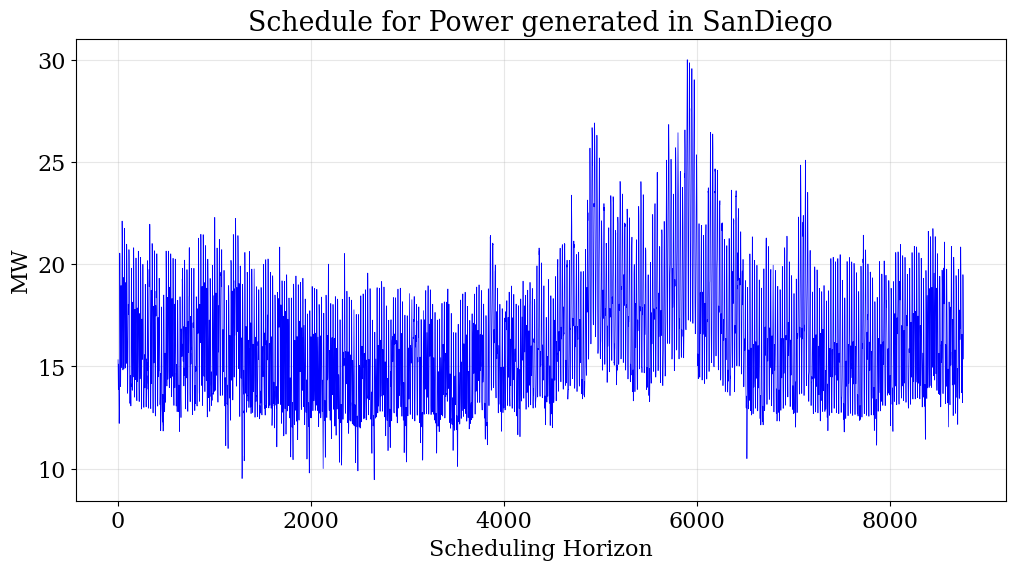
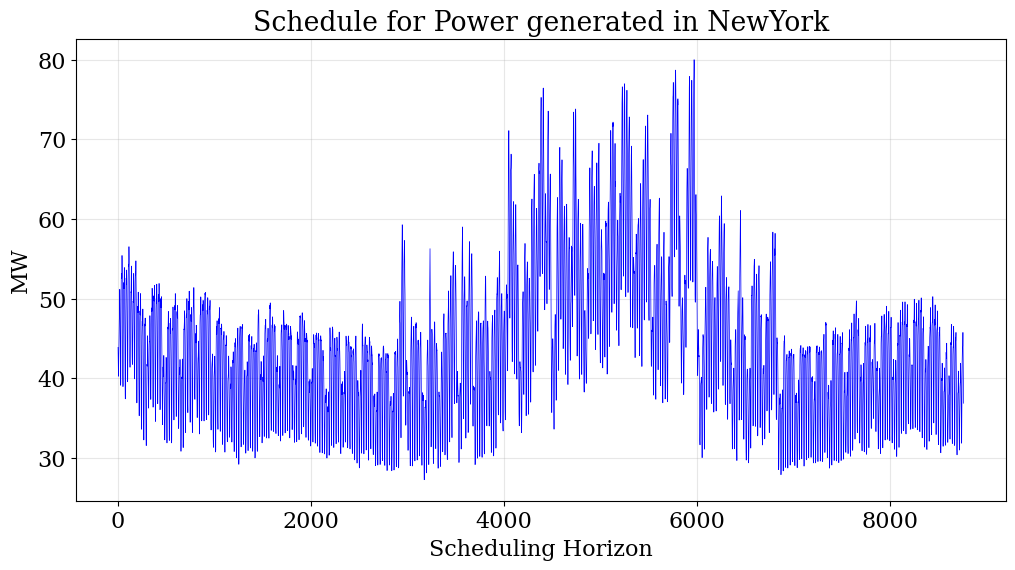
updated large example

diff --git a/docs/example_multiloc.rst b/docs/example_multiloc.rst
@@ -156,6 +156,7 @@ The problem can now modeled in energiapy
 .. code-block:: python 
 
     import pandas 
+    import numpy
     from energiapy.components.temporal_scale import Temporal_scale
     from energiapy.components.resource import Resource, VaryingResource
     from energiapy.components.process import Process, VaryingProcess
@@ -165,11 +166,17 @@ The problem can now modeled in energiapy
     from energiapy.components.scenario import Scenario
     from energiapy.components.transport import Transport
     from energiapy.components.result import Result 
-    from energiapy.utils.data_utils import make_henry_price_df, remove_outliers
+    from energiapy.utils.data_utils import get_data, make_henry_price_df, remove_outliers, load_results
     from energiapy.model.formulate import formulate, Constraints, Objective
     from energiapy.utils.nsrdb_utils import fetch_nsrdb_data
-    from energiapy.plot import plot
+    from energiapy.plot import plot_results, plot_scenario
+    from energiapy.plot.plot_results import CostY, CostX
     from energiapy.model.solve import solve
+    from energiapy.aggregation.reduce_scenario import reduce_scenario, Clustermethod
+    from energiapy.aggregation.ahc import agg_hierarchial_elbow, IncludeAHC, Fit
+    from energiapy.aggregation.dtw import dynamic_warping, dynamic_warping_matrix, dynamic_warping_path, IncludeDTW
+    from energiapy.utils.data_utils import load_results
+    import matplotlib.pyplot as plt
 
 **import weather data**
 
@@ -194,6 +201,24 @@ Here, we import solar data as dni and wind data as wind speed for most populated
     weather_houston =  fetch_nsrdb_data(attrs = ['wind_speed', 'dni'], year = 2019, state = 'Texas', county = 'Harris',\
             resolution= 'hourly', get = 'min-elevation', save = 'data/ho_solar19')[1] 
 
+Alternatively, saved files can also be imported.
+
+.. code-block:: python
+
+    def load_data(loc:str, index:list):
+        df = pandas.read_csv(f'data/{loc}_solar19.csv')
+        df['idx'] = index
+        df = df.set_index('idx')
+        return df
+
+    idx = [(i,j,k) for i,j,k in product(range(1), range(365), range(24))]
+
+    weather_ny = load_data('ny', idx)[['DNI', 'Wind Speed']]
+    weather_ny = weather_ny.rename(columns= {'DNI': 'dni', 'Wind Speed': 'wind_speed'})
+    weather_sd = load_data('sd', idx)[['dni', 'wind_speed']]
+    weather_ho = load_data('ho', idx)[['dni', 'wind_speed']]
+
+
 **import natural gas prices**
 
 Natural gas prices are from the Henry price index at a daily temporal resolution. 
@@ -208,10 +233,11 @@ Moreover, we can remove outliers usig the remove_outliers features in data_utils
 
 .. code-block:: python 
 
-    ng_price = make_henry_price_df(file_name='data/Henry_Hub_Natural_Gas_Spot_Price_Daily.csv', year=2019, stretch=False)
-    ng_price = ng_price.set_index(weather_sandiego.index[::24])
+    ng_price = make_henry_price_df(
+        file_name='data/Henry_Hub_Natural_Gas_Spot_Price_Daily.csv', year=2019, stretch=True)
     ng_price = ng_price.drop(columns= 'scales')
     ng_price = remove_outliers(ng_price, sd_cuttoff = 3)
+    ng_price = ng_price.set_index(weather_ho.index) #Fix index
 
 **Import demand data**
 
@@ -219,11 +245,13 @@ Here we import the power demand data for San Diego (CAISO for SDGE region) and H
 
 .. code-block:: python 
 
-    demand_sandiego = pandas.read_excel('data/HistoricalEMSHourlyLoad-2019.xlsx', index_col= 0)[['SDGE']]
-    demand_houston = pandas.read_excel('data/Native_Load_2019.xlsx')[['COAST']]
-    #Fix Index
-    demand_sandiego = demand_sandiego.set_index(weather_sandiego.index)
-    demand_houston = demand_houston.set_index(weather_houston.index)
+    demand_sd = pandas.read_excel('data/HistoricalEMSHourlyLoad-2019.xlsx', index_col= 0)[['SDGE']]
+    demand_ho = pandas.read_excel('data/Native_Load_2019.xlsx')[['COAST']]
+    demand_ny = pandas.DataFrame(pandas.read_csv('data/NYC_load.csv')['Load']) #from Will and Doga
+    # Fix Index
+    demand_sd = demand_sd.set_index(weather_ho.index)
+    demand_ho = demand_ho.set_index(weather_ho.index)
+    demand_ny = demand_ny.set_index(weather_ho.index)
 
 
 **Define temporal scale**
@@ -240,7 +268,7 @@ In essence, we are creating a temporal scale of 8760 points.
 
 .. code-block:: python 
 
-    scales = Temporal_scale(discretization_list=[1, 365, 24], start_zero= 2019)
+    scales = Temporal_scale(discretization_list=[1, 365, 24])
 
 **Declare resources**
 
@@ -268,18 +296,22 @@ these can be represented as cost factors (0,1) multiplied to a base resource cos
 
 .. code-block:: python
 
-    Solar = Resource(name='Solar', cons_max=100, basis='MW', label='Solar Power')
+    Solar = Resource(name='Solar', cons_max=bigM, basis='MW', label='Solar Power')
 
-    Wind = Resource(name='Wind', cons_max= 100, basis='MW', label='Wind Power')
+    Wind = Resource(name='Wind', cons_max= bigM, basis='MW', label='Wind Power')
 
     Power = Resource(name='Power', basis='MW', demand = True, label='Power generated', varying = VaryingResource.deterministic_demand)
 
     H2 = Resource(name='H2', basis='kg', label='Hydrogen', block='Resource')
 
-    H2O = Resource(name='H2O', cons_max=10**10,
+    H2_L = Resource(name='H2', basis='kg', label='Hydrogen', block='Resource', store_max = 10000)
+
+    CO2_AQoff = Resource(name='CO2_AQoff', basis='kg', label='Carbon dioxide - sequestered', store_max = 10000)
+
+    H2O = Resource(name='H2O', cons_max=bigM**2,
                 price= 0.001, basis='kg', label='Water', block='Resource')
 
-    CH4 = Resource(name='CH4', cons_max=10**10, price=1, basis='kg', label='Natural gas', varying=  VaryingResource.deterministic_price)
+    CH4 = Resource(name='CH4', cons_max=bigM**2, price=1, basis='kg', label='Natural gas', varying=  VaryingResource.deterministic_price)
 
     CO2 = Resource(name='CO2', basis='kg', label='Carbon dioxide', block='Resource')
 
@@ -297,22 +329,27 @@ Essentially, the model is developed as an RTN
 
 .. code-block:: python
 
-    LiI = Process(name='LiI', storage= Power, capex = 1302182, fopex= 41432, vopex = 2000,  prod_max=100, label='Lithium-ion battery', basis = 'MW')
+    LiI = Process(name='LiI', storage= Power, capex = 1302182, fopex= 41432, vopex = 2000,  prod_max=bigM, label='Lithium-ion battery', basis = 'MW')
 
-    WF = Process(name='WF', conversion={Wind: -1, Power: 1},capex=990637, fopex=3354, vopex=4953, prod_max=100, label='Wind mill array', varying= VaryingProcess.deterministic_capacity, basis = 'MW')
+    WF = Process(name='WF', conversion={Wind: -1, Power: 1},capex=990637, fopex=3354, vopex=4953, prod_max=bigM, label='Wind mill array', varying= VaryingProcess.deterministic_capacity, basis = 'MW')
 
-    PV = Process(name='PV', conversion={Solar: -1, Power: 1}, capex=567000, fopex=872046, vopex=90000, prod_max=100, varying = VaryingProcess.deterministic_capacity, label = 'Solar PV', basis = 'MW')
-
-
+    PV = Process(name='PV', conversion={Solar: -1, Power: 1}, capex=567000, fopex=872046, vopex=90000, prod_max=bigM, varying = VaryingProcess.deterministic_capacity, label = 'Solar PV', basis = 'MW')
 
     SMRH = Process(name='SMRH', conversion={Power: -1.11*10**(-3), CH4: -3.76, H2O: -23.7, H2: 1, CO2_Vent: 1.03, CO2: 9.332}, capex =2520, fopex = 945, vopex = 0.0515,\
-        prod_max= 10000, label='Steam methane reforming + CCUS')
+        prod_max= bigM, label='Steam methane reforming + CCUS')
 
-    SMR = Process(name='SMR', capex = 2400, fopex = 800, vopex = 0.03,  conversion={Power: -1.11*10**(-3), CH4: -3.76, H2O: -23.7, H2: 1, CO2_Vent: 9.4979}, prod_max=10000, label='Steam methane reforming')
+    SMR = Process(name='SMR', capex = 2400, fopex = 800, vopex = 0.03,  conversion={Power: -1.11*10**(-3), CH4: -3.76, H2O: -23.7, H2: 1, CO2_Vent: 9.4979}, prod_max=bigM, label='Steam methane reforming')
 
-    H2FC = Process(name='H2FC', conversion = {H2:-50, Power: 1}, capex =  1.6*10**6, vopex = 3.5, fopex = 0, prod_max = 100, label = 'hydrogen fuel cell')
+    H2FC = Process(name='H2FC', conversion = {H2:-50, Power: 1}, capex =  1.6*10**6, vopex = 3.5, fopex = 0, prod_max = bigM, label = 'hydrogen fuel cell')
 
-    DAC = Process(name='DAC', capex = 0.02536, fopex = 0.634, vopex = 0, conversion={Power: -1.93*10**(-4), H2O: -4.048, CO2_DAC: 1}, prod_max=10000, gwp=0, label='Direct air capture')
+    DAC = Process(name='DAC', capex = 0.02536, fopex = 0.634, vopex = 0, conversion={Power: -1.93*10**(-4), H2O: -4.048, CO2_DAC: 1}, prod_max=bigM, label='Direct air capture')
+
+
+    H2_L_c = Process(name='H2_L_c', conversion={Power: -4.17*10**(-4), H2_L: 1, H2: -1}, capex =  1.6*10**6, vopex = 3.5, fopex = 0, prod_max= bigM, label='Hydrogen geological storage')
+
+    H2_L_d = Process(name='H2_L_d', conversion={H2_L: -1, H2: 1}, capex =  0.01, vopex = 0.001, fopex = 0, prod_max= bigM, label='Hydrogen geological storage discharge')
+
+    AQoff_SMR = Process(name='AQoff_SMR', conversion={Power: -0.00128, CO2_AQoff: 1, CO2: -1}, capex =  0.00552, vopex = 0.00414, fopex = 0, prod_max= bigM,  label='Offshore aquifer CO2 sequestration (SMR)')
 
 **Declare locations**
 
@@ -332,13 +369,14 @@ Note that not all of these are required to build a problem.
 
 .. code-block:: python
 
-    houston = Location(name='HO', processes= {LiI, PV, WF, SMRH, SMR, H2FC, DAC}, demand_factor= {Power: demand_houston}, cost_factor = {CH4: ng_price}, \
-        capacity_factor = {PV: pandas.DataFrame(weather_houston['dni']), WF: pandas.DataFrame(weather_houston['wind_speed'])},\
-            scales=scales, label='Houston', demand_scale_level=2, capacity_scale_level= 2, cost_scale_level= 1)
+    houston = Location(name='HO', processes= {LiI, PV, WF, SMRH, H2FC, DAC, AQoff_SMR}, capacity_factor = {PV: weather_ho[['dni']], WF: weather_ho[['wind_speed']]},\
+        demand_factor= {Power: demand_ho}, cost_factor = {CH4: ng_price}, scales=scales, label='Houston', demand_scale_level=2, capacity_scale_level= 2, cost_scale_level= 2)
 
-    sandiego = Location(name='SD', processes= {LiI, PV, WF, H2FC}, demand_factor= {Power: demand_sandiego}, cost_factor = {CH4: ng_price}, \
-        capacity_factor = {PV: pandas.DataFrame(weather_sandiego['dni']), WF: pandas.DataFrame(weather_sandiego['wind_speed'])},\
-            scales=scales, label='SanDiego', demand_scale_level=2, capacity_scale_level= 2, cost_scale_level= 1)
+    sandiego = Location(name='SD', processes= {LiI, PV, WF, SMRH, H2FC, DAC, AQoff_SMR}, capacity_factor = {PV: weather_sd[['dni']], WF: weather_sd[['wind_speed']]},\
+        demand_factor= {Power: demand_sd}, cost_factor = {CH4: ng_price}, scales=scales, label='SanDiego', demand_scale_level=2, capacity_scale_level= 2, cost_scale_level= 2)
+
+    newyork = Location(name='NY', processes= {LiI, PV, WF, SMRH,  H2FC, DAC, AQoff_SMR}, capacity_factor = {PV: weather_ny[['dni']], WF: weather_ny[['wind_speed']]},\
+        demand_factor= {Power: demand_ny}, cost_factor = {CH4: ng_price}, scales=scales, label='NewYork', demand_scale_level=2, capacity_scale_level= 2, cost_scale_level= 2)
 
 
 **Plotting input data**
@@ -349,9 +387,9 @@ The factors for demand, cost, and capacity can be plotted
 
 .. code-block:: python
 
-    plot.capacity_factor(location= sandiego, process= PV, color= 'orange')
-    plot.capacity_factor(location= sandiego, process= WF, color= 'blue')
-    plot.cost_factor (location= sandiego, resource= CH4, color= 'red')
+    plot_scenario.capacity_factor(scenario = scenario, location= houston, process= PV, fig_size= (9,5), color= 'orange')
+    plot_scenario.capacity_factor(scenario = scenario, location= sandiego, process= WF, fig_size= (9,5), color= 'blue')
+    plot_scenario.demand_factor(scenario = scenario, location= newyork, resource= Power, fig_size= (9,5), color= 'red')
 
 .. image:: multi_loc_pv.png
 
@@ -365,8 +403,21 @@ Transport objects translocate resources, and can have associated costs as well a
 
 .. code-block:: python
 
-    Train_H2 = Transport(name= 'Train_H2', resources= {H2}, trans_max= 10000, trans_loss= 0.001, trans_cost= 1.667*10**(-3), label= 'Railway for hydrogen transportation')
-    Pipe = Transport(name= 'Pipe', resources= {H2}, trans_max= 10000, trans_loss= 0.001, trans_cost= 0.5*10**(-3), label= 'Railroad transport')
+    Train_H2 = Transport(name= 'Train_H2', resources= {H2}, trans_max= bigM, trans_loss= 0.03, trans_cost= 1.667*10**(-3)\
+        , label= 'Railway for hydrogen transportation')
+    Grid = Transport(name= 'Grid', resources= {Power}, trans_max= bigM, trans_loss= 0.001, trans_cost= 0.5*10**(-3), label= 'Railroad transport')
+
+    distance_matrix = [
+        [0, 2366, 2620],
+        [2366, 0, 4440],
+        [2620, 4440, 0]
+                    ]
+
+    transport_matrix = [
+        [[], [Grid, Train_H2], [Grid, Train_H2]],
+        [[Grid, Train_H2], [], [Grid, Train_H2]],
+        [[Grid, Train_H2], [Grid, Train_H2], []] 
+                    ]
 
 **Declare network**
 
@@ -375,17 +426,7 @@ Networks link locations with transportation. The availability of differnt transp
 
 .. code-block:: python
 
-    distance_matrix = [
-        [0, 2366],
-        [2366, 0]
-                    ]
-
-    transport_matrix = [
-        [[], [Train_H2, Pipe]],
-        [[Train_H2, Pipe], []] 
-                    ]
-
-    network = Network(name= 'Network', source_locations= [houston, sandiego], sink_locations= [houston, sandiego], distance_matrix= distance_matrix, transport_matrix= transport_matrix) 
+    network = Network(name= 'Network', source_locations= [houston, sandiego, newyork], sink_locations= [houston, sandiego, newyork], distance_matrix= distance_matrix, transport_matrix= transport_matrix) 
 
 **Declare scenario**
 
@@ -397,8 +438,9 @@ In this case we are generating a scenario for a network with locations Houston a
 
 .. code-block:: python
 
-    scenario = Scenario(name= 'dtw_example', network= network, scales= scales,  expenditure_scale_level= 1, scheduling_scale_level= 2, \
-    network_scale_level= 0, demand_scale_level= 2, label= 'DTW_case')
+    
+    scenario = Scenario(name= 'scenario_full', network= network, scales= scales,  expenditure_scale_level= 2, scheduling_scale_level= 2, \
+        network_scale_level= 0, demand_scale_level= 2, label= 'full_case', demand = {newyork: {Power: 80}, houston: {Power: 0}, sandiego: {Power: 0}})
 
 
 **Formulate milp instance**
@@ -409,8 +451,17 @@ In the following case, we optimize the cost while constraining inventory, produc
 
 .. code-block:: python
 
-    milp = formulate(scenario= scenario, demand = {sandiego: {Power: 30}, houston: {Power: 20}}, \
-    constraints={Constraints.cost, Constraints.inventory, Constraints.production, Constraints.resource_balance, Constraints.transport}, objective= Objective.cost)
+    milp_cost = formulate(scenario= scenario, constraints={Constraints.cost, Constraints.inventory,\
+        Constraints.production, Constraints.resource_balance, Constraints.transport, Constraints.mode}, \
+        objective=Objective.cost)
+
+We can also optimize the model towards a different objective
+
+.. code-block:: python
+
+    milp_demand = formulate(scenario= scenario, constraints={Constraints.cost, Constraints.inventory,\
+        Constraints.production, Constraints.resource_balance, Constraints.transport, Constraints.mode}, \
+        objective=Objective.demand)
 
 **Solve the instance**
 
@@ -418,21 +469,50 @@ The instance can then be solved using an appropriate solver. Here we solve the p
 
 .. code-block:: python
 
-    results = solve(scenario = scenario, instance= milp, solver= 'gurobi', name=f"Multi-Loc", print_solversteps = True)
-
+    results_cost = solve(scenario = scenario, instance= milp_cost, solver= 'gurobi', name=f"results_cost", print_solversteps = True, saveformat = '.pkl')
 
 **Plotting output**
 
 The results can be analyzed, and used for illustrations.
 Note that plotting of results requires the provision of the names as opposed to energiapy objects.
 
+*cost curves - process wise*
+
 .. code-block:: python
 
-    plot.schedule(results= results, y_axis= 'S', component= 'Power', location= 'SD')
+    plot_results.cost(results= results_cost, x = CostX.process_wise, y = CostY.capex, location= 'HO', fig_size= (8,6))
+
+.. image:: multi_loc_capex.png
+
+*cost curves - location wise*
+
+.. code-block:: python
+
+    plot_results.cost(results= results_cost, x = CostX.location_wise, y = CostY.fopex, fig_size= (8,6))
+
+.. image:: multi_loc_fopex.png
+
+
+*schedule - transportation*
+
+.. code-block:: python
+
+    plot_results.transport(results= results_cost, source= 'HO', sink = 'NY', resource= 'Power', transport = 'Grid')
+
+.. image:: multi_loc_trans.png
+
+*schedule - production*
+
+.. code-block:: python
+
+    plot_results.schedule(results= results_cost, y_axis= 'P', component= 'WF', location = 'HO', fig_size= (9,5), color = 'steelblue')
+
+.. image:: multi_loc_prod.png
+
+*schedule - sales*
+
+.. code-block:: python
+
+    plot_results.schedule(results= results_cost, y_axis= 'S', component= 'Power', location= 'NY')
 
 .. image:: multi_loc_sch.png
-
-
-
-
-
